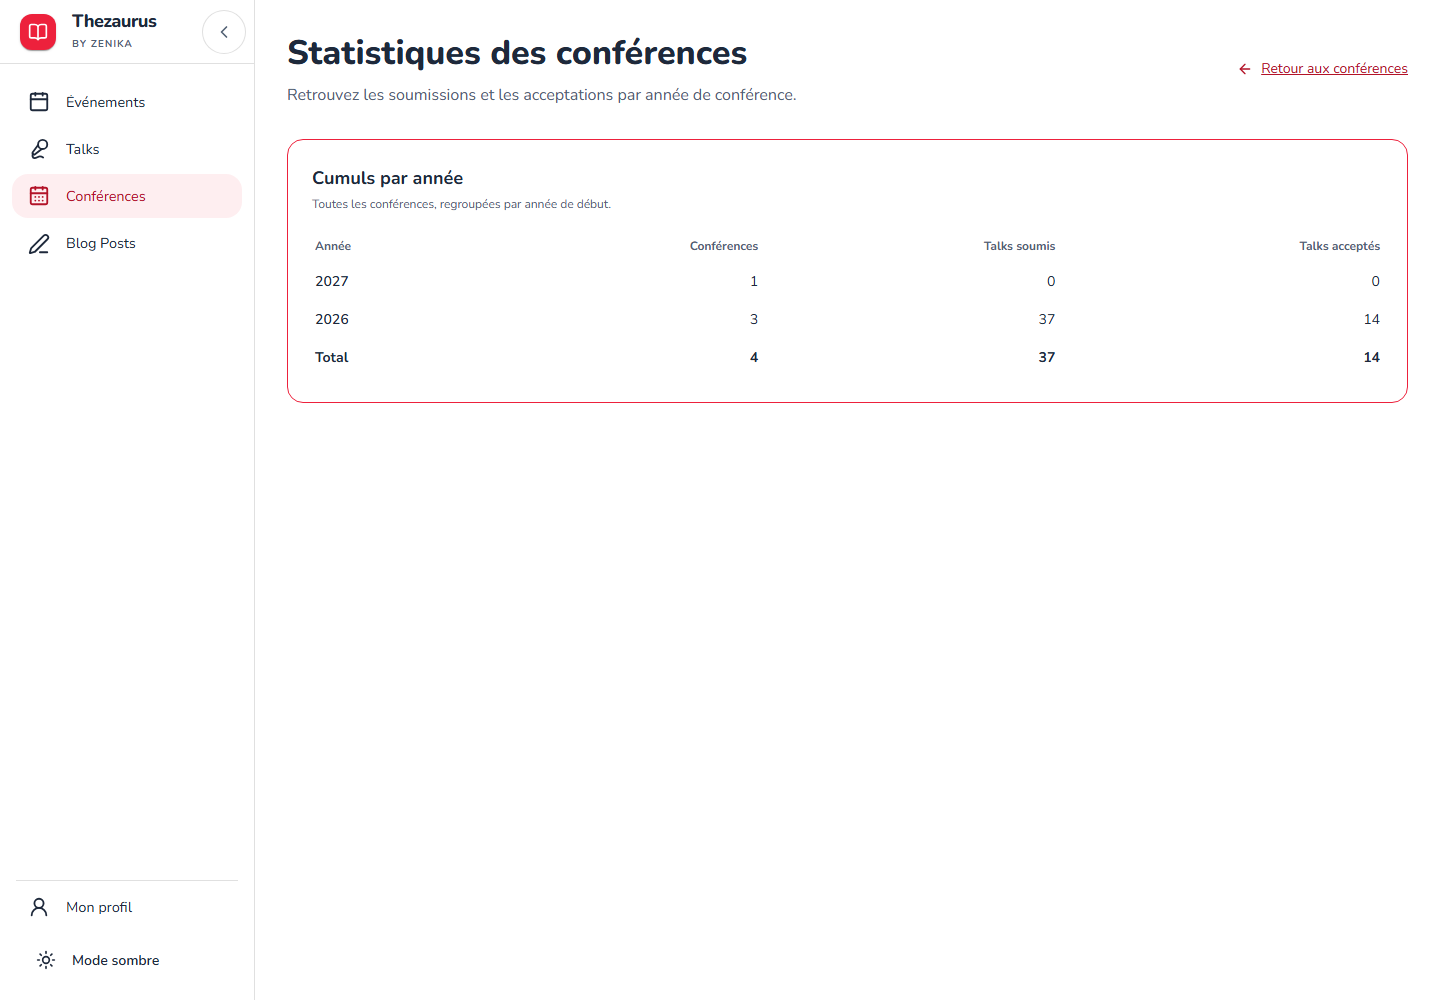
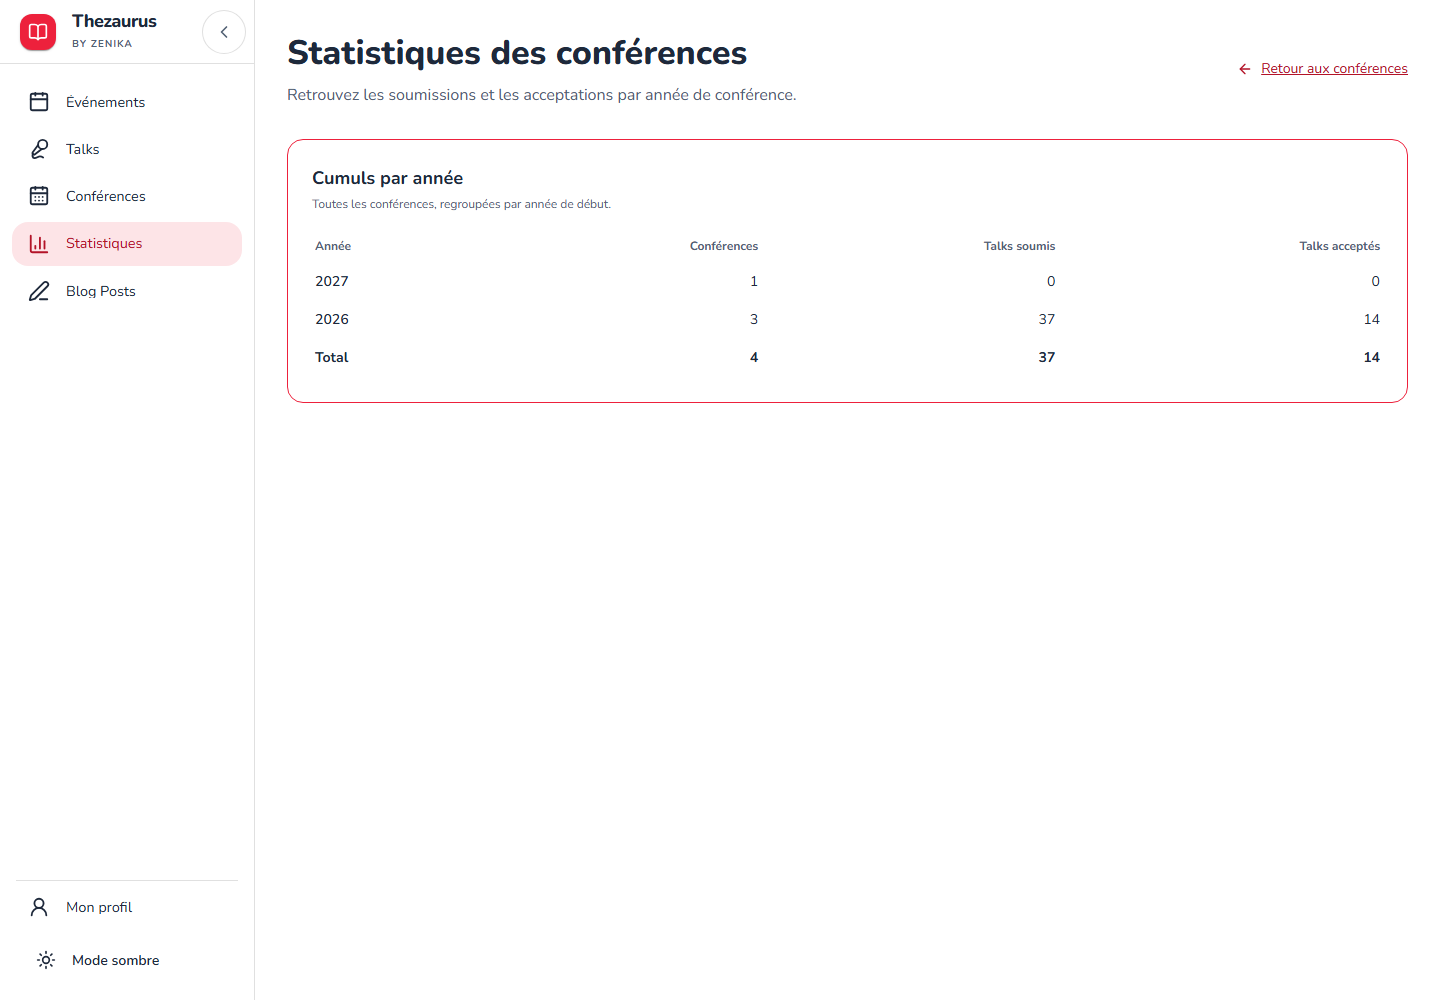
feat(navigation): ajouter Statistiques au menu principal

Changed region(s): [[0.0, 0.186, 0.1875, 0.31]]

diff --git a/front/widgets/SideMenu/SideMenuNavigation.test.tsx b/front/widgets/SideMenu/SideMenuNavigation.test.tsx
@@ -9,7 +9,11 @@ vi.mock("next/navigation", () => ({ useRouter: () => router, usePathname: () => 
 vi.mock("next-auth/react", () => ({ useSession: () => ({ data: { user: { roles: ["ADMIN"] } } }) }));
 vi.mock("next-themes", () => ({ useTheme: () => ({ resolvedTheme: "light", setTheme: vi.fn() }) }));
 
-const links = [{ label: "Talks", path: "/talks" }];
+const links = [
+  { label: "Talks", path: "/talks" },
+  { label: "Conférences", path: "/conferences" },
+  { label: "Statistiques", path: "/conferences/statistics" },
+];
 
 async function navigateFromMobileMenu(label: string) {
   fireEvent.click(screen.getByRole("button", { name: "Ouvrir la navigation" }));
@@ -52,6 +56,7 @@ afterEach(() => {
 describe.each([false, true])("real mobile menu with Navigation API: %s", (modern) => {
   it.each([
     ["Talks", "/talks"],
+    ["Statistiques", "/conferences/statistics"],
     ["Mon profil", "/profile"],
     ["Administration", "/admin"],
   ])("checks %s before Next receives the navigation, and confirms only once", async (label, path) => {
@@ -77,6 +82,14 @@ describe.each([false, true])("real mobile menu with Navigation API: %s", (modern
     expect(router.push).toHaveBeenCalledExactlyOnceWith(path);
     expect(confirm).toHaveBeenCalledTimes(2);
   });
+});
+
+it("met en évidence uniquement Statistiques sur sa page", async () => {
+  window.history.replaceState({}, "", "/conferences/statistics");
+  render(<SideMenuClient navLinks={links} />);
+  fireEvent.click(screen.getByRole("button", { name: "Ouvrir la navigation" }));
+  expect(await screen.findByRole("button", { name: "Statistiques" })).toHaveAttribute("aria-current", "page");
+  expect(screen.getByRole("button", { name: "Conférences" })).not.toHaveAttribute("aria-current");
 });
 
 it("removes the guard after save and unmount without blocking a clean transition", async () => {

diff --git a/front/widgets/SideMenu/SideMenuClient.tsx b/front/widgets/SideMenu/SideMenuClient.tsx
@@ -3,7 +3,7 @@
 import { useState } from "react";
 import { usePathname } from "next/navigation";
 import { useGuardedPush } from "@/shared/lib/navigation-guard";
-import { Calendar, CalendarDays, MicVocal, PenLine } from "lucide-react";
+import { BarChart3, Calendar, CalendarDays, MicVocal, PenLine } from "lucide-react";
 import { SideMenuView } from "./SideMenuView";
 import { type NavItemConfig } from "./SideMenuNavItem";
 
@@ -11,6 +11,7 @@ const iconMap: Record<string, React.ElementType> = {
   "/":            Calendar,
   "/talks":       MicVocal,
   "/conferences": CalendarDays,
+  "/conferences/statistics": BarChart3,
   "/blog-posts":  PenLine,
 };
 
@@ -29,13 +30,14 @@ export function SideMenuClient({ navLinks }: SideMenuClientProps) {
   const push = useGuardedPush();
   const pathname = usePathname();
 
-  const isActive = (path: string) =>
-    path === "/" ? pathname === "/" : pathname.startsWith(path);
+  const activeLink = navLinks
+    .filter(({ path }) => path === "/" ? pathname === "/" : pathname === path || pathname.startsWith(`${path}/`))
+    .sort((left, right) => right.path.length - left.path.length)[0];
 
   const navItems: NavItemConfig[] = navLinks.map((link) => ({
     icon: iconMap[link.path] ?? Calendar,
     label: link.label,
-    active: isActive(link.path),
+    active: activeLink?.path === link.path,
     onClick: () => { push(link.path); setMobileOpen(false); },
   }));
 

diff --git a/front/features/conferences/ui/Conferences.tsx b/front/features/conferences/ui/Conferences.tsx
@@ -5,8 +5,7 @@ import { Suspense, useState } from "react";
 import { ConferencesListSkeleton } from "./ConferencesSkeleton";
 import { ConferencesList } from "./ConferencesList";
 
-import { BarChart3, Plus } from "lucide-react";
-import Link from "next/link";
+import { Plus } from "lucide-react";
 import { useConferencesMutations } from "../model/useConferencesMutations";
 import { ConferenceData } from "@/entities/conference";
 import dynamic from "next/dynamic";
@@ -34,18 +33,12 @@ export function Conferences() {
   return (
     <div className="p-4 sm:p-6 lg:p-8">
       <PageHeader title="Conférences et CFP" subtitle={<>Suivez les conférences et les deadlines de CFP.</>} action={
-        <div className="flex flex-wrap items-center gap-3">
-          <Link href="/conferences/statistics" className="inline-flex items-center gap-2 text-sm text-link hover:underline">
-            <BarChart3 size={16} />
-            Statistiques annuelles
-          </Link>
-          <CreateButton
-            onClick={() => setOpen(true)}
-          >
-            <Plus size={16} />
-            Nouvelle conférence
-          </CreateButton>
-        </div>
+        <CreateButton
+          onClick={() => setOpen(true)}
+        >
+          <Plus size={16} />
+          Nouvelle conférence
+        </CreateButton>
       } />
 
       <Suspense fallback={<ConferencesListSkeleton />}>

diff --git a/front/widgets/SideMenu/SideMenu.tsx b/front/widgets/SideMenu/SideMenu.tsx
@@ -4,6 +4,7 @@ const navLinks = [
   { label: "Événements", path: "/" },
   { label: "Talks",       path: "/talks" },
   { label: "Conférences", path: "/conferences" },
+  { label: "Statistiques", path: "/conferences/statistics" },
   { label: "Blog Posts",  path: "/blog-posts" },
 ];
 

diff --git a/docs/ConferenceStatistics.md b/docs/ConferenceStatistics.md
@@ -13,9 +13,10 @@ rétablit aussi l'ordre initial.
 
 ## Cumuls annuels
 
-La page dédiée `/conferences/statistics`, accessible via « Statistiques annuelles » depuis la liste,
+La page dédiée `/conferences/statistics`, accessible via « Statistiques » dans le menu de gauche,
 présente le tableau « Cumuls par année ». Un lien permet de revenir aux conférences.
-La liste conserve uniquement ses cartes, filtres et tri, sans tableau de synthèse.
+La liste conserve uniquement ses cartes, filtres et tri, sans tableau de synthèse ni lien supplémentaire
+dans son en-tête. Dans le menu, seule l'entrée Statistiques est active sur la page de statistiques.
 Le tableau additionne les compteurs de toutes les conférences du catalogue,
 par année de début, sans requête ni compteur persisté supplémentaire. Une conférence chevauchant
 deux années n'est comptée qu'une fois. Les conférences sans année connue sont regroupées sur une
